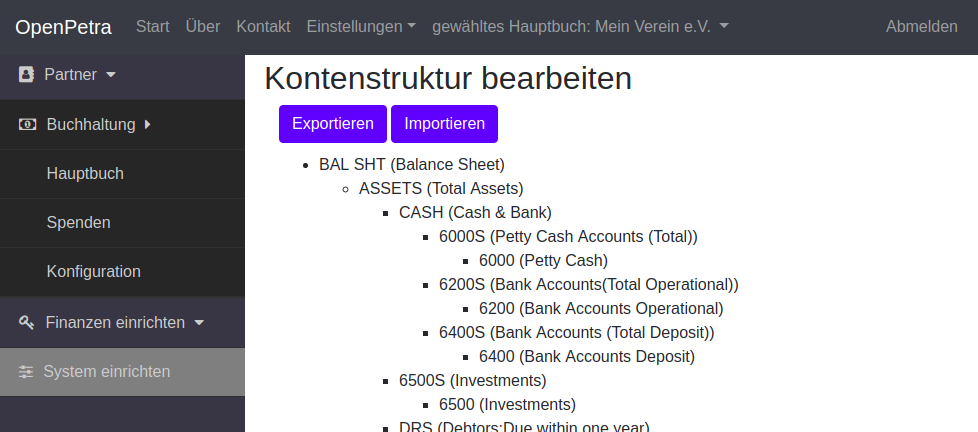
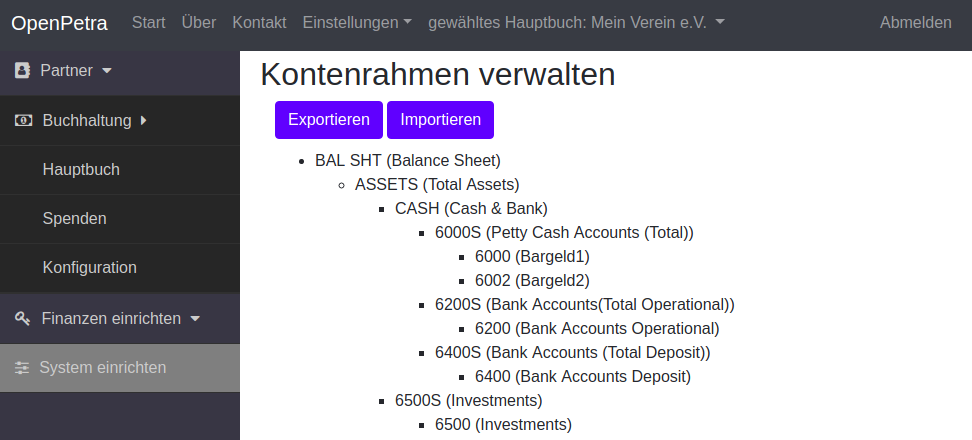
manage motivations. update text and screenshots for account edit and costcentre edit.

Changed region(s): [[0.0, 0.0301, 1.0, 1.0], [0.0309, 0.4815, 0.1235, 0.5417], [0.0309, 0.3611, 0.1235, 0.4213]]

diff --git a/source/howtos/initial-finance-setup.rst b/source/howtos/initial-finance-setup.rst
@@ -8,10 +8,10 @@ Konfiguration eines frischen Hauptbuches
 
 Wir gehen in dieser Anleitung davon aus, dass das Hauptbuch schon eingerichtet worden ist (siehe :ref:`ein-hauptbuch-anlegen`).
 
-Konten einrichten
-=================
+Kontenrahmen einrichten
+=======================
 
-Gehen Sie im seitlichen Menü auf *Buchhaltung*, und wählen *Konfiguration*, und dann unter *Hauptbuch* wählen Sie *Konten verwalten*.
+Gehen Sie im seitlichen Menü auf *Buchhaltung*, und wählen *Konfiguration*, und dann unter *Hauptbuch* wählen Sie *Kontenrahmen verwalten*.
 
 .. _figure-account_edit:
 
@@ -324,3 +324,48 @@ Eine Beispiel-Datei sieht so aus:
                 4300:{descr=Germany, type=Foreign}
                 7300:{descr=Kenya, type=Foreign}
                 9500:{descr=Global Impact Fund, type=Foreign}
+
+Verwendungszwecke einrichten
+============================
+
+Verwendungszwecke sind dazu da, um Spenden direkt einem Konto und einer Kostenstelle zuzuordnen, über ein leicht zu merkendes Kürzel.
+
+Zum Beispiel kann man bestimmen, dass Spenden an den Verwendungszweck SPENDE/PATENSCHAFTEN immer auf die Kostenstelle 101000 Patenschaften und das Konto 0100 Patenschaften gebucht werden.
+
+Hierbei ist SPENDE die Gruppe, und PATENSCHAFTEN das Detail.
+
+Gehen Sie im seitlichen Menü auf *Buchhaltung*, und wählen *Konfiguration*, und dann unter *Spenden* wählen Sie *Verwendungszwecke verwalten*.
+
+.. _figure-motivations_list:
+
+.. figure:: images/motivations_list.png
+   :scale: 50%
+
+   Verwendungszwecke verwalten
+
+Verwendungszwecke werden gruppiert, in diesem Beispiel heißt die Gruppe GIFT. Sie können die Gruppe löschen, indem Sie auf das Symbol mit dem Schraubenschlüssel klicken.
+
+Dann erscheint dieser Dialog:
+
+.. _figure-motivation_group_edit:
+
+.. figure:: images/motivation_group_edit.png
+   :scale: 50%
+
+   Verwendungszweck-Gruppe bearbeiten
+
+Um diese Gruppe und alle ihre Details zu löschen, klicken Sie den roten *Löschen* Schalter.
+
+Nun können Sie eine neue Gruppe mit Namen SPENDEN anlegen, in dem Sie auf den Schalter mit der Beschriftung *Hinzufügen* klicken.
+
+Um Verwendungszweck-Details einzufügen, klicken Sie auf die Gruppe, und dann klappt die Detailansicht auf. Dort ist ein weiterer *Hinzufügen* Schalter, der nun erlaubt, ein Detail anzulegen.
+
+Der Dialog für das Hinzufügen eines Verwendungszweck-Details sieht so aus:
+
+.. _figure-motivation_detail_add:
+
+.. figure:: images/motivation_detail_add.png
+   :scale: 50%
+
+   Verwendungszweck-Detail hinzufügen
+
